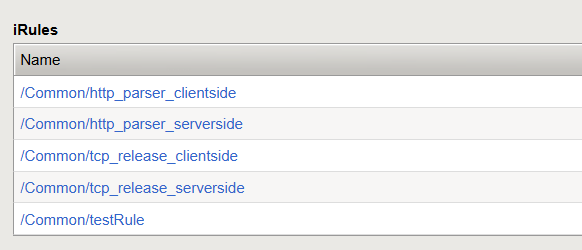
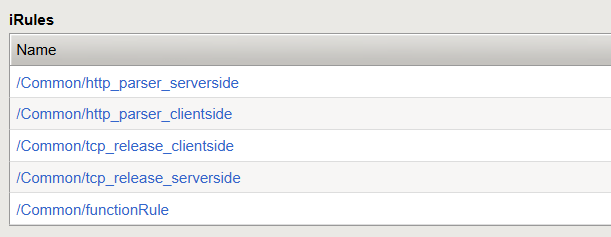
2026.04.13

Changed region(s): [[0.0, 0.0591, 1.0, 0.9747]]

diff --git a/presentation/scripts_overview.md b/presentation/scripts_overview.md
@@ -1,3 +1,51 @@
 # Scripts Overview
 
-## 
+## Execution Sequence
+
+### HTTP Request
+
+- `http_parser_clientside.irul`
+    - collect tcp payload
+    - parse and store the fields in the request header
+- `functionRule.irul`
+    - implement the function of the HTTP request phase
+- `tcp_release_clientside.irul`
+    - refresh the variable
+    - release and forward the collected payload
+
+### HTTP Response
+
+- `http_parser_serverside.irul`
+    - collect tcp payload
+    - parse and store the fields in the response header
+- `functionRule.irul`
+    - implement the function of the HTTP response phase
+- `tcp_release_serverside.irul`
+    - refresh the variable
+    - release and forward the collected payload
+
+## How to test the scripts
+
+- Make the relevant configurations according to the document [how-to-configure](how-to-configure.md)
+- Use the iRule statement that prints logs to print the variables you want to check
+    1. for example , you want to check http request field **uri**
+    2. in the irule **http_parser_clientside.irul** , we have pre-defined the field variables that need to be parsed
+    
+        ```tcl
+        set REQUEST_LINE            ""
+        set REQUEST_HEADER          [list]
+        set REQUEST_BODY            ""
+
+        set HTTP_METHOD             ""     
+        set URI                     ""
+        set CLIENT_VERSION          ""
+
+        array set REQ_HEADER_MAP    {}
+        set REQ_FIELD_OFFSET_LIST   [list]
+        ```
+    3. print the log
+
+        `log local0. "uri: $URI"`
+    4. use bash command to check the log file
+        
+        `tail -f /var/log/ltm`

diff --git a/presentation/how-to-configure.md b/presentation/how-to-configure.md
@@ -1,4 +1,4 @@
-# How to test these iRules
+# How to make these iRules take effect
 
 ## Configuration on Virtual Server
 
